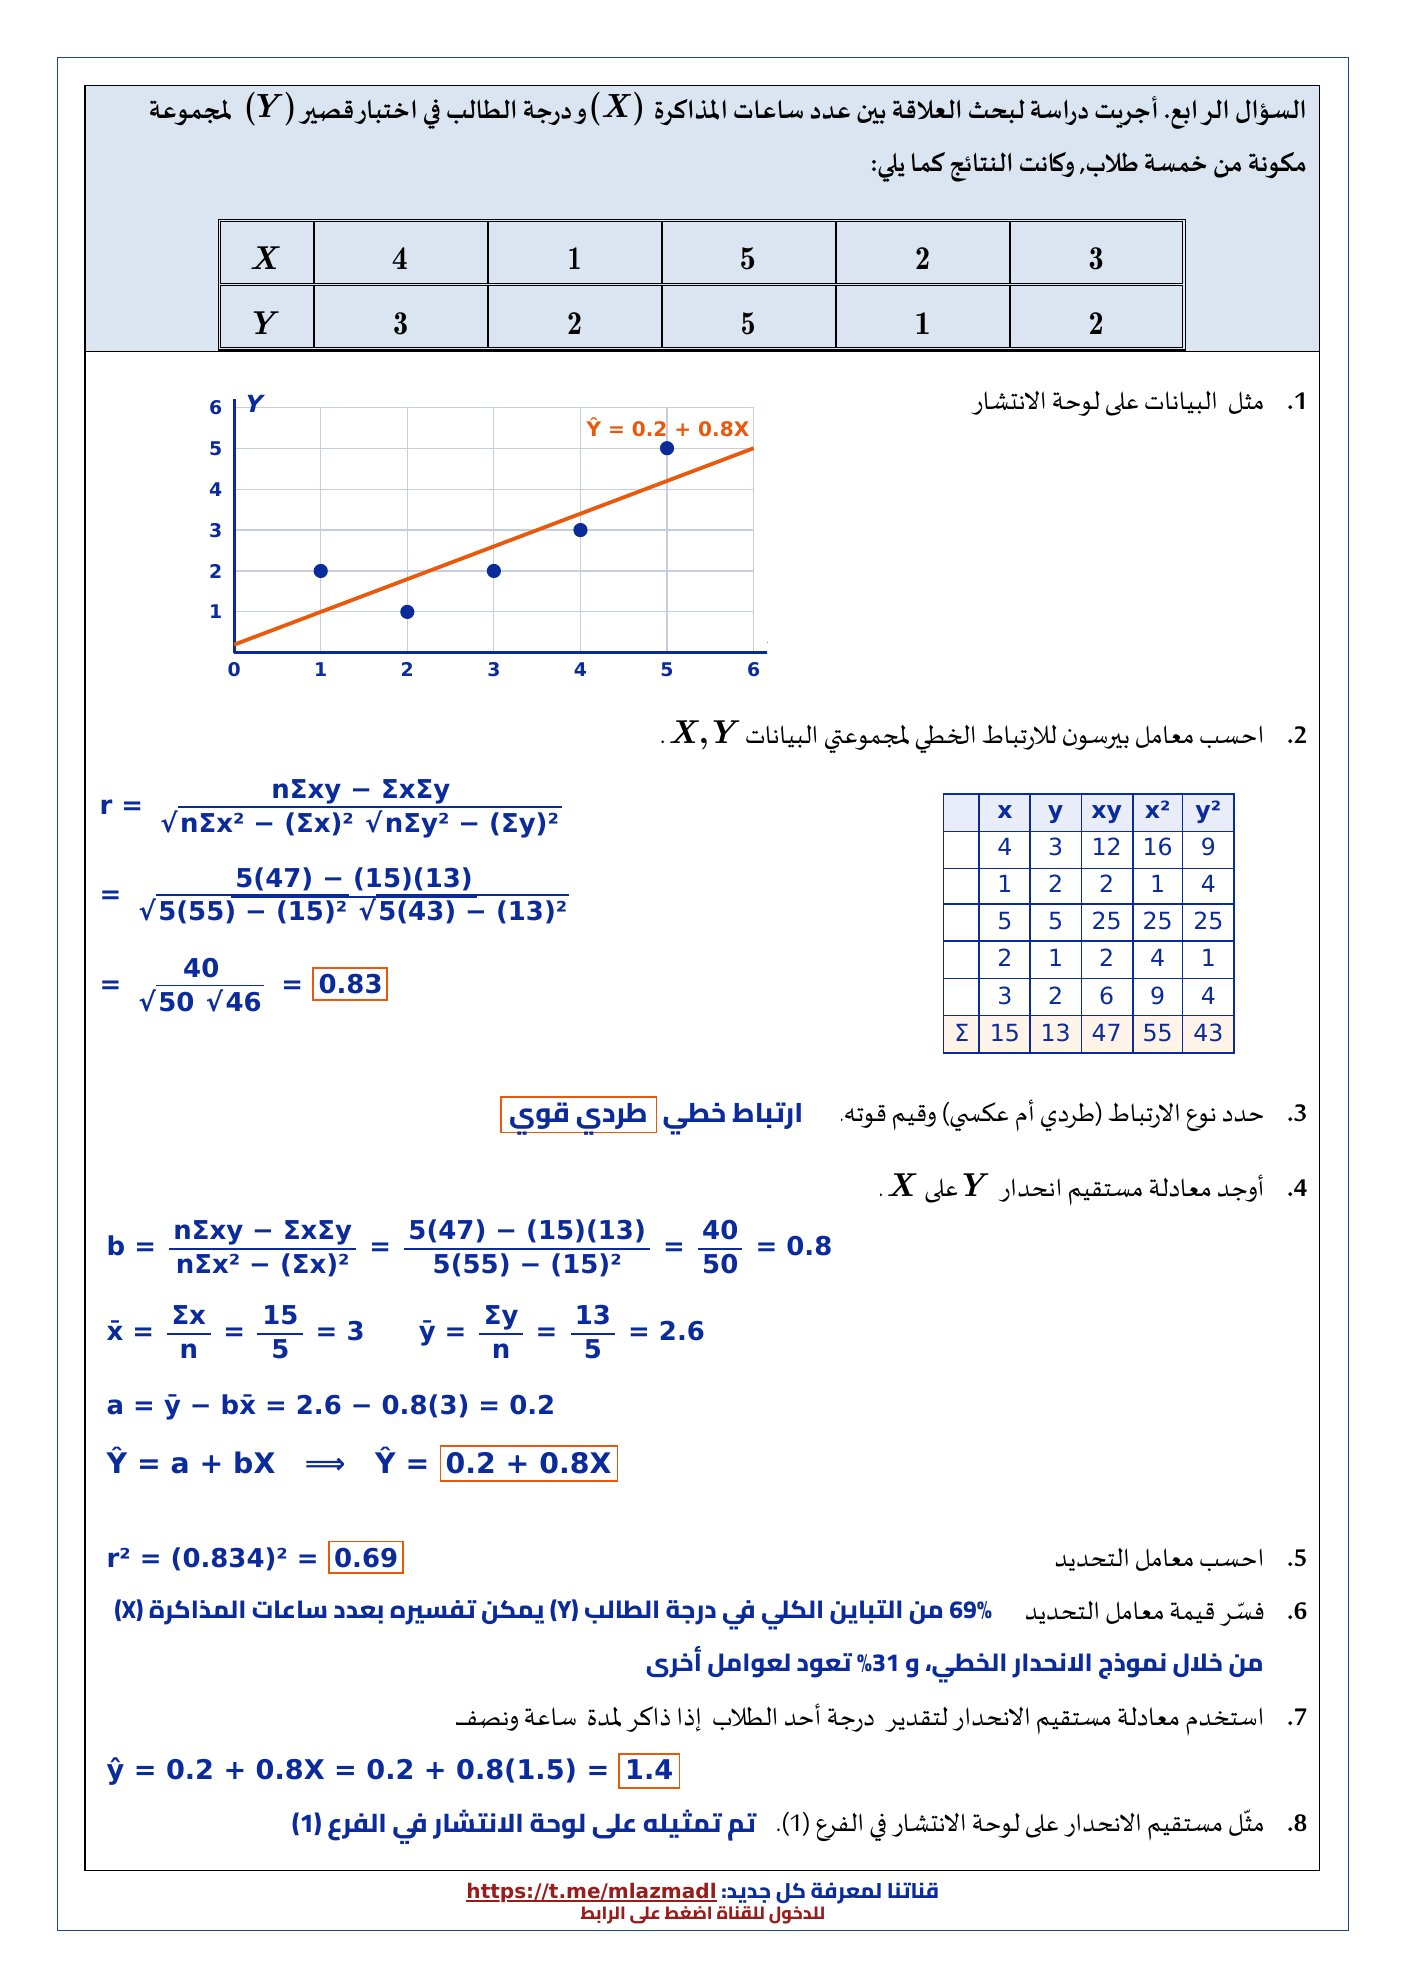
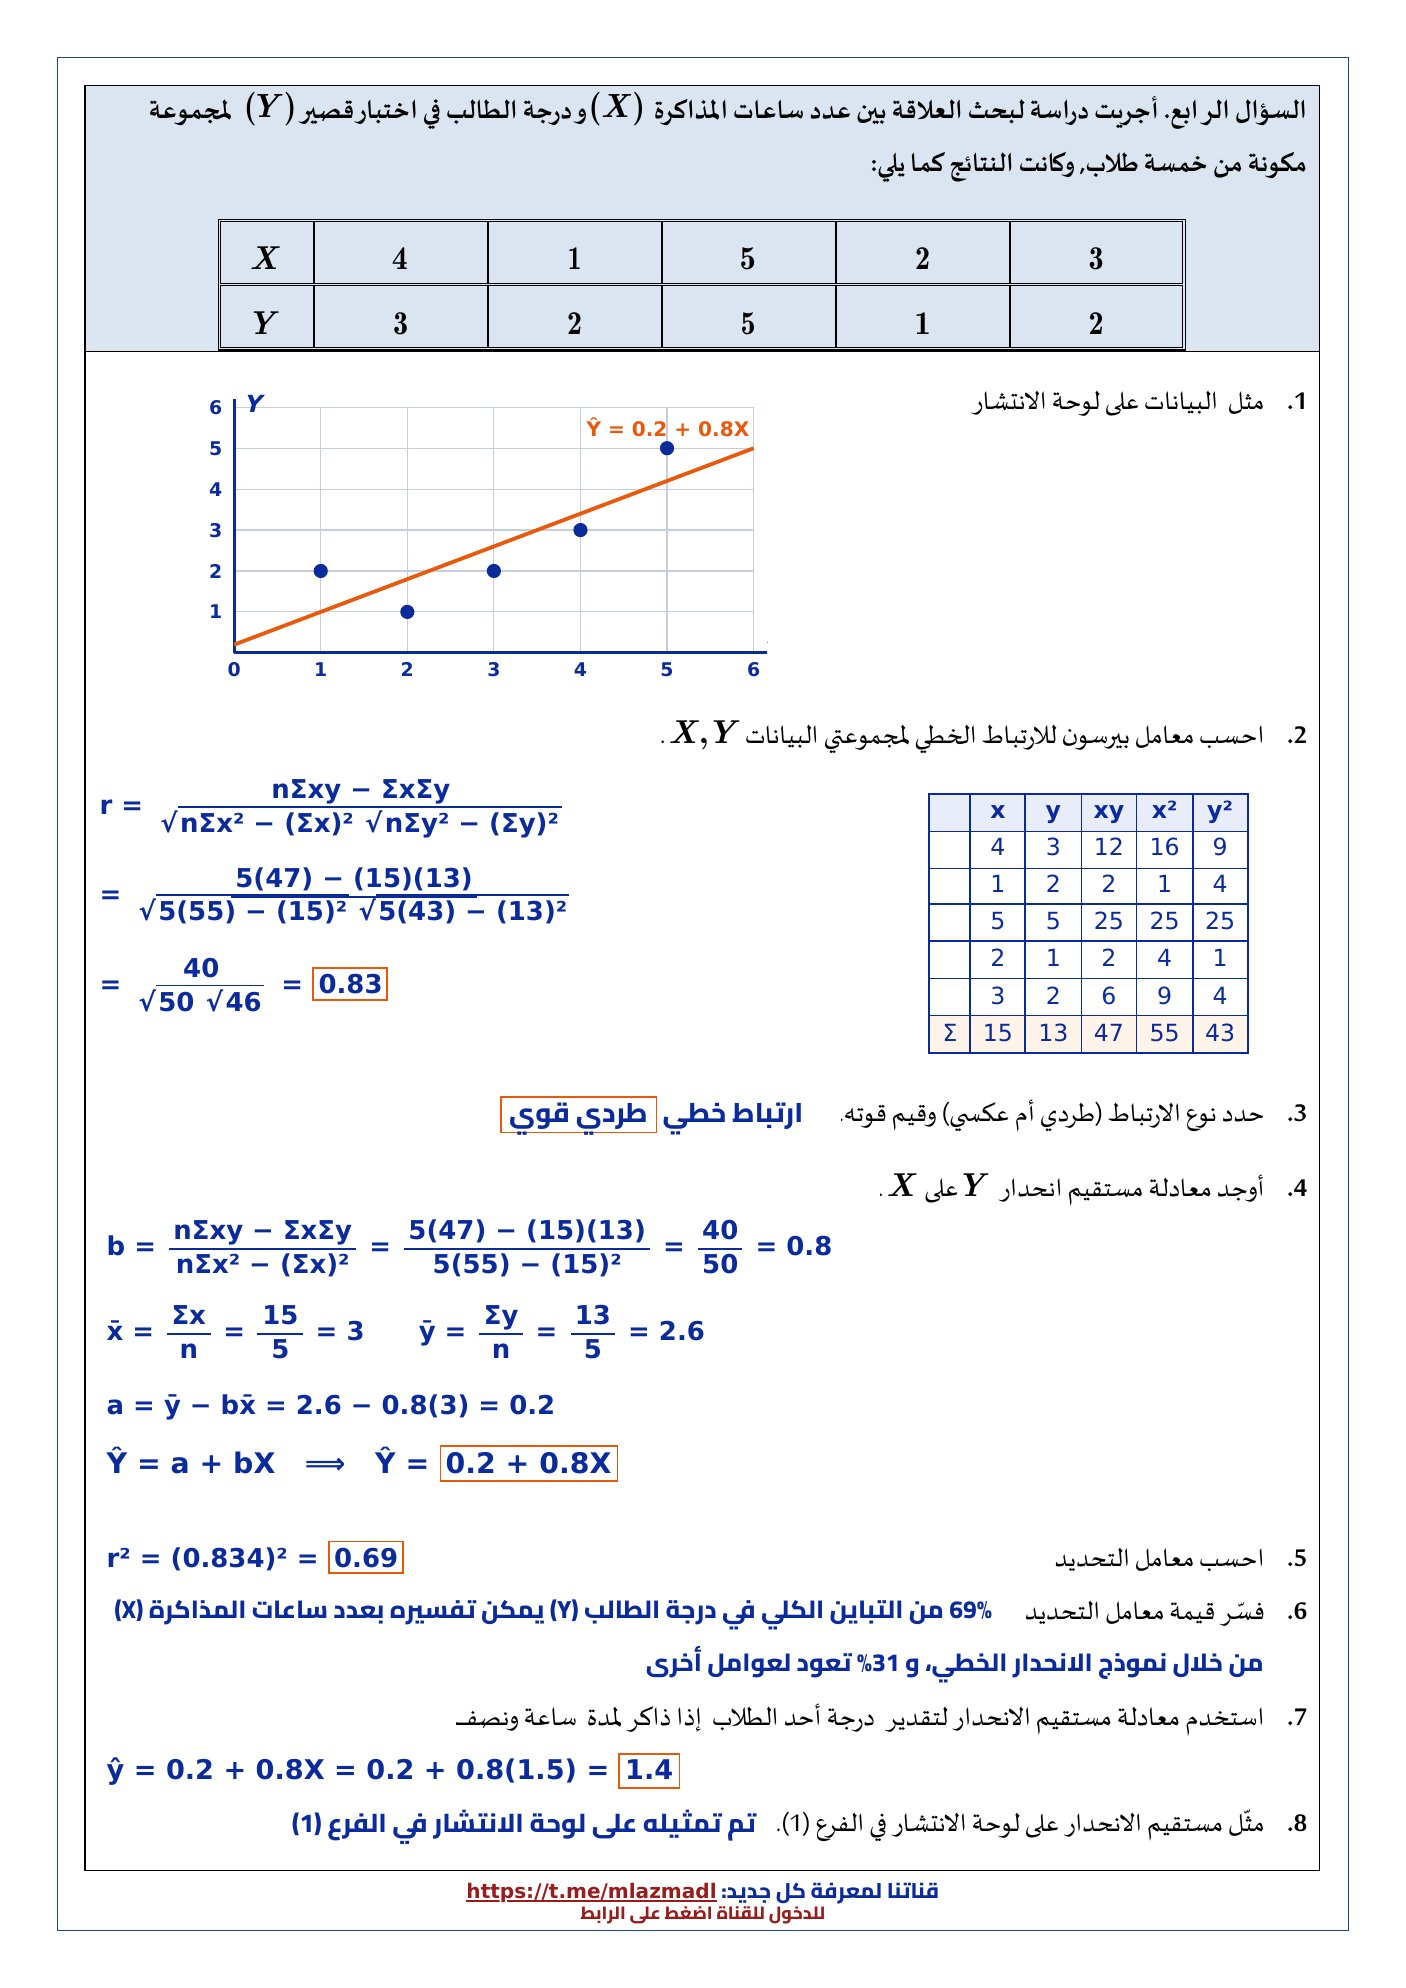
حل سبيرمان بخطوات ملف القسم الثلاث في ورقة العمل (7) (#147)
Claude-Session: https://claude.ai/code/session_01P2W4DViX2DDJL3Qd7qfdx4

Changed region(s): [[0.6422, 0.4054, 0.8869, 0.5302], [0.6422, 0.4054, 0.6728, 0.4366]]

diff --git a/tools/statistics/ws7.js b/tools/statistics/ws7.js
@@ -20,12 +20,16 @@ const sc=(()=>{const W=250,H=128,l=24,b=18,t=6,r=6;const X=v=>l+v*(W-l-r)/6,Y=v=
 const ptab=`<table class="tb"><tr><th></th><th>x</th><th>y</th><th>xy</th><th>x²</th><th>y²</th></tr>`+
  [[4,3],[1,2],[5,5],[2,1],[3,2]].map(([x,y])=>`<tr><td></td><td>${x}</td><td>${y}</td><td>${x*y}</td><td>${x*x}</td><td>${y*y}</td></tr>`).join('')+
  `<tr class="sum"><td>Σ</td><td>15</td><td>13</td><td>47</td><td>55</td><td>43</td></tr></table>`;
-const R=[['ممتاز','منخفض جداً',6.5,1],['جيد جداً','منخفض',5,2.5],['ممتاز','منخفض',6.5,2.5],['جيد','متوسط',3.5,4.5],['مقبول','مرتفع',2,6],['جيد','متوسط',3.5,4.5],['ضعيف','مرتفع جداً',1,7]];
+const R=[['ممتاز','منخفض جداً','6+7',1],['جيد جداً','منخفض',5,'2+3'],['ممتاز','منخفض','6+7','2+3'],['جيد','متوسط','3+4','4+5'],['مقبول','مرتفع',2,6],['جيد','متوسط','3+4','4+5'],['ضعيف','مرتفع جداً',1,7]];
+const val=v=>typeof v==='string'?v.split('+').reduce((a,b)=>a+ +b,0)/2:v;
+const cell=v=>typeof v==='string'?`<span dir="ltr">${F(v.replace('+',' + '),'2')} = ${val(v)}</span>`:v;
+const step1=`<table class="tb" dir="rtl"><tr><th class="a">الرتبة الأولية</th>${[1,2,3,4,5,6,7].map(k=>`<th>${k}</th>`).join('')}</tr>
+<tr><td class="a">X</td>${['ضعيف','مقبول','جيد','جيد','جيد جداً','ممتاز','ممتاز'].map(t=>`<td class="a">${t}</td>`).join('')}</tr>
+<tr><td class="a">Y</td>${['منخفض جداً','منخفض','منخفض','متوسط','متوسط','مرتفع','مرتفع جداً'].map(t=>`<td class="a">${t}</td>`).join('')}</tr></table>`;
 const stab=`<table class="tb" dir="rtl"><tr><th>X</th><th>Y</th><th>R<sub>x</sub></th><th>R<sub>y</sub></th><th>d = R<sub>x</sub> − R<sub>y</sub></th><th>d²</th></tr>`+
- R.map(([x,y,a,b])=>{const d=a-b;return `<tr><td class="a">${x}</td><td class="a">${y}</td><td>${a}</td><td>${b}</td><td dir="ltr">${d<0?'−'+(-d):d}</td><td>${d*d}</td></tr>`}).join('')+
+ R.map(([x,y,a,b])=>{const d=val(a)-val(b);return `<tr><td class="a">${x}</td><td class="a">${y}</td><td>${cell(a)}</td><td>${cell(b)}</td><td dir="ltr">${d<0?'−'+(-d):d}</td><td>${d*d}</td></tr>`}).join('')+
  `<tr class="sum"><td colspan="5" class="a">المجموع</td><td dir="ltr">Σd² = 106.5</td></tr></table>`;
-const rank=`<div class="rk" dir="rtl"><div class="a">ترتيب X تصاعدياً:</div><div class="a">ضعيف (1) ، مقبول (2) ، جيد ، جيد <span dir="ltr">${F('3 + 4','2')} = 3.5</span></div><div class="a">جيد جداً (5) ، ممتاز ، ممتاز <span dir="ltr">${F('6 + 7','2')} = 6.5</span></div>
-<div class="a" style="margin-top:4pt">ترتيب Y تصاعدياً:</div><div class="a">منخفض جداً (1) ، منخفض ، منخفض <span dir="ltr">${F('2 + 3','2')} = 2.5</span></div><div class="a">متوسط ، متوسط <span dir="ltr">${F('4 + 5','2')} = 4.5</span> ، مرتفع (6) ، مرتفع جداً (7)</div></div>`;
+const H=t=>A(`<span style="color:#ea580c">${t}</span>`);
 // [x0,y0,x1,y1,font,html,dir,align,raw]
 const pages={
  1:[
@@ -59,9 +63,12 @@ const pages={
  ],
  3:[
   [60,758,535,782,9,FOOT,'rtl','center'],
-  [292,176,537,352,8.5,stab,'rtl','center','raw'],
-  [42,186,284,346,9.5,rank,'rtl','center','raw'],
-  [45,362,535,402,12,`r${s('s')} = 1 − ${F(`6${S}d²`,'n(n² − 1)')} = 1 − ${F('6(106.5)','7(7² − 1)')} = 1 − ${F('639','336')} = ${B('−0.90')}`],
+  [45,170,535,184,10,H('1) ترتيب المشاهدات تصاعدياً وإعطاء الرتب الأولية'),'rtl'],
+  [45,186,535,240,9,step1,'rtl','center','raw'],
+  [45,245,535,259,10,H('2) بناء جدول الرتب'),'rtl'],
+  [45,261,535,462,9,stab,'rtl','center','raw'],
+  [45,466,535,480,10,H('3) حساب معامل ارتباط سبيرمان'),'rtl'],
+  [45,484,535,524,12,`r${s('s')} = 1 − ${F(`6${S}d²`,'n(n² − 1)')} = 1 − ${F('6(106.5)','7(7² − 1)')} = 1 − ${F('639','336')} = ${B('−0.90')}`],
   [45,556,340,573,11.5,A(`ارتباط رتبي ${B('عكسي قوي جداً')}`),'rtl'],
  ]};
 (async()=>{
@@ -92,9 +99,10 @@ sub{font-size:68%;vertical-align:sub;line-height:0}
 .de{padding:0.5pt 2pt 0}
 .sq{white-space:nowrap}.sqi{border-top:0.9pt solid currentColor;padding:0 1pt}
 .tb{border-collapse:collapse;font-size:inherit;color:#0b2a9c}
-.tb td,.tb th{border:0.8pt solid #0b2a9c;padding:1.2pt 4pt;text-align:center;line-height:1.25;white-space:nowrap}
+.tb td,.tb th{border:0.8pt solid #0b2a9c;padding:1.2pt 5pt;text-align:center;line-height:1.25;white-space:nowrap}
 .tb th{background:#e8edf9}
 .tb .sum td{background:#fff3ea}
+.tb .fr{font-size:85%}
 .rk{line-height:1.55}
 .rk .fr{font-size:85%}
 </style></head><body>${divs}</body></html>`;

diff --git a/CLAUDE.md b/CLAUDE.md
@@ -47,6 +47,7 @@
   - بيرسون r بالصيغة الحسابية (nΣxy − ΣxΣy)/√… ، سبيرمان rs = 1 − 6Σd²/(n(n² − 1)) ، b بنفس صيغة البسط/(nΣx² − (Σx)²) ، a = ȳ − b x̄. إذا أُعطيت Sx, Sy, r: b = r·Sy/Sx.
   - تصنيف القوة: 1 تام، 0.86–1 قوي جداً، 0.70–0.86 قوي، 0.50–0.70 متوسط، 0.30–0.50 ضعيف، 0–0.30 ضعيف جداً.
   - الرتب تصاعدياً (الأضعف/الأقل = 1)، والمكرر يأخذ متوسط الرتب.
+  - حل سبيرمان بثلاث خطوات مثل ملف القسم: (1) جدول الترتيب التصاعدي والرتب الأولية، (2) جدول الرتب X, Y, Rx, Ry, d, d² مع كتابة متوسط الرتب المكررة داخل الخلية مثل (3 + 4)/2 = 3.5، (3) التعويض في القانون.
   - المستخدم يبي الحسابات بجدول (بيرسون: x, y, xy, x², y² ومجاميعها؛ سبيرمان: X, Y, Rx, Ry, d, d²).
   - القيم الوسيطة اللي القطع يغيّر نتيجتها (مثل الميل b) تُكتب بأربع منازل (مثلاً 0.0961).
 - أكمل الفراغ: الإجابة فقط بدون مربع (مثل صح/خطأ).
